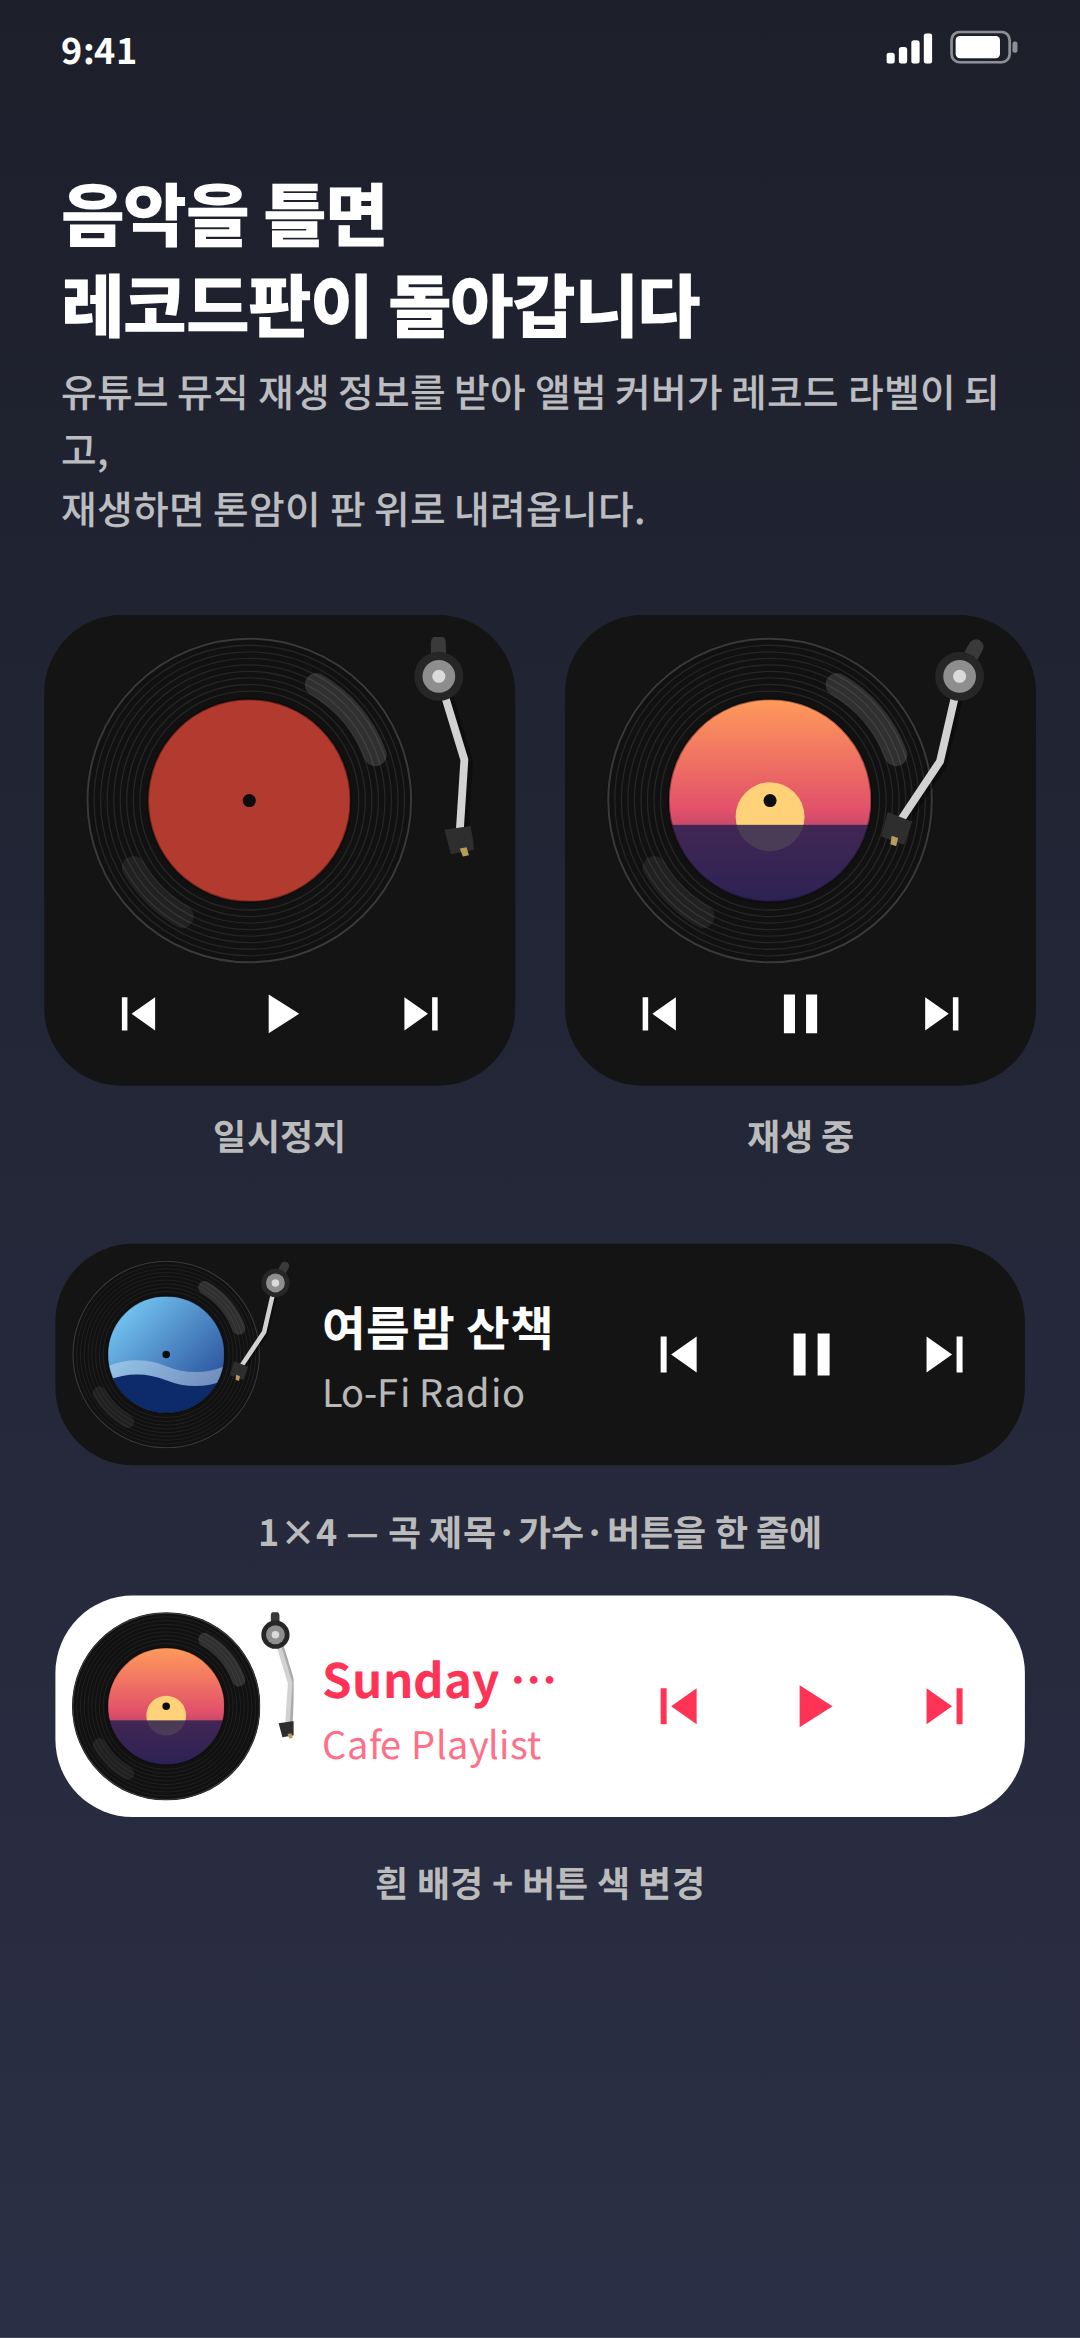
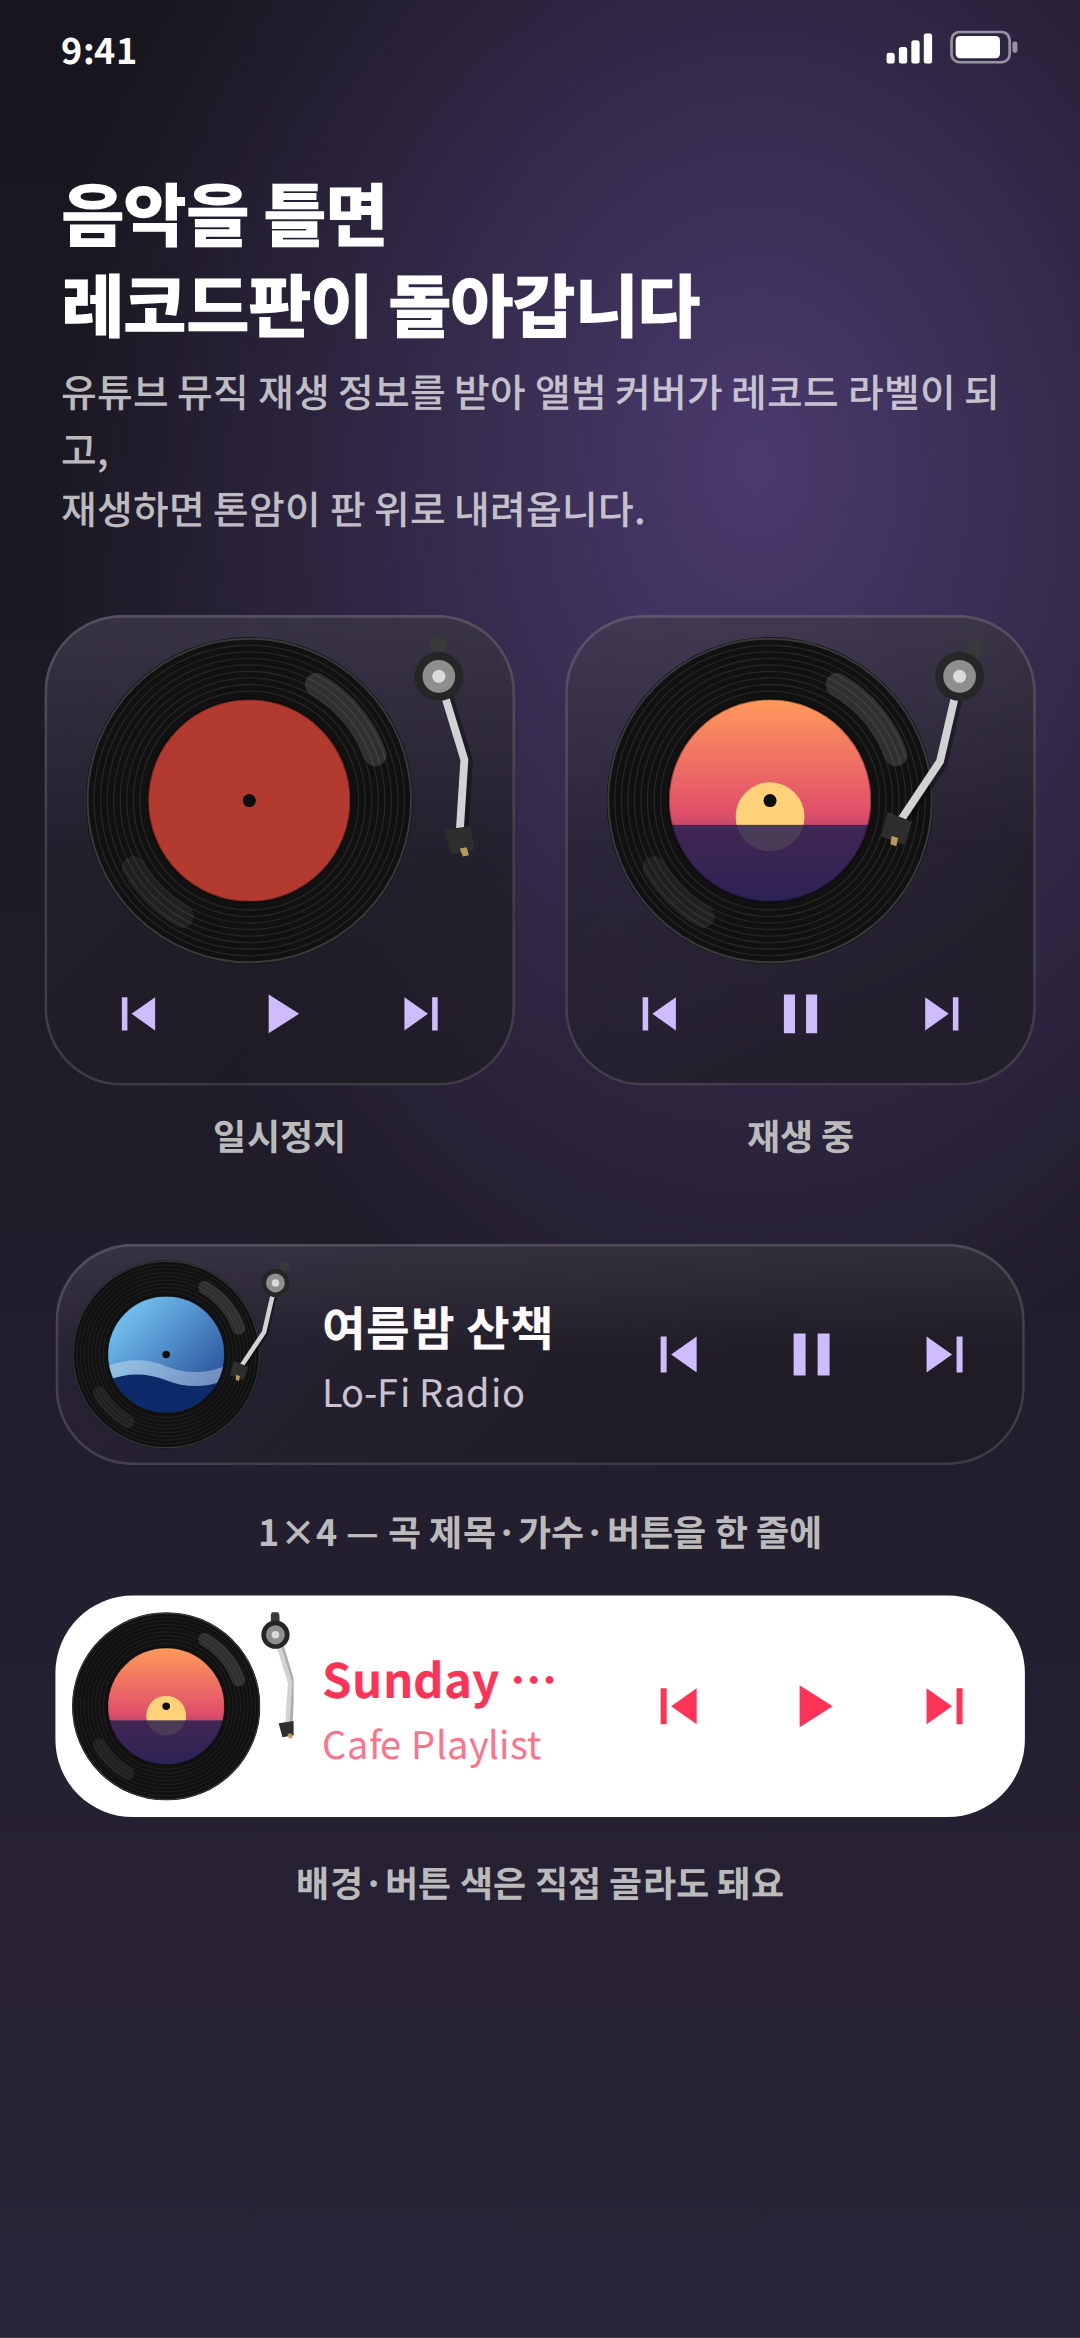
Update promo screenshots and post for glass widget look
Claude-Session: https://claude.ai/code/session_01NYwzHTHgnWYuk4Tep6pMfb

diff --git a/promo/naver_cafe_post.md b/promo/naver_cafe_post.md
@@ -39,12 +39,20 @@
   밤이나 비 오는 날엔 텐트에 불이 켜져요 🔥
 - 30분마다 자동으로 새로 받아오고, 위젯을 누르면 바로 새로고침돼요
 
-### 🎨 3. 내 맘대로 꾸미기
+### 🪟 3. 어떤 배경화면에도 어울리는 유리 카드
+
+📷 [사진 6: 06_any_wallpaper.png]
+
+- 위젯 바탕이 **반투명 유리 카드**라 어떤 배경화면 위에서도 튀지 않아요
+- **배경화면 색을 따라** 카드와 버튼 색이 저절로 바뀌어요 (안드로이드 12+ Material You)
+- **다크 모드**도 알아서 따라가요
+
+### 🎨 4. 내 맘대로 꾸미기
 
 📷 [사진 5: 05_customize.png]
 
-- 배경 **검정 / 흰색**, **투명도 0~100%**
-- 버튼·글자 색: 기본 10색 + 직접 고르기(색상·채도·밝기, #색상코드 입력도 돼요)
+- 배경 **자동(유리) / 검정 / 흰색**, **투명도 0~100%**
+- 버튼·글자 색: **자동(배경에 맞춤)** + 기본 10색 + 직접 고르기(색상·채도·밝기, #색상코드 입력도 돼요)
 - 미리보기에서 보이는 그대로 홈 화면에 들어가요
 - 위젯을 길게 누르고 '설정'을 누르면 위젯마다 따로 꾸밀 수 있어요
 
